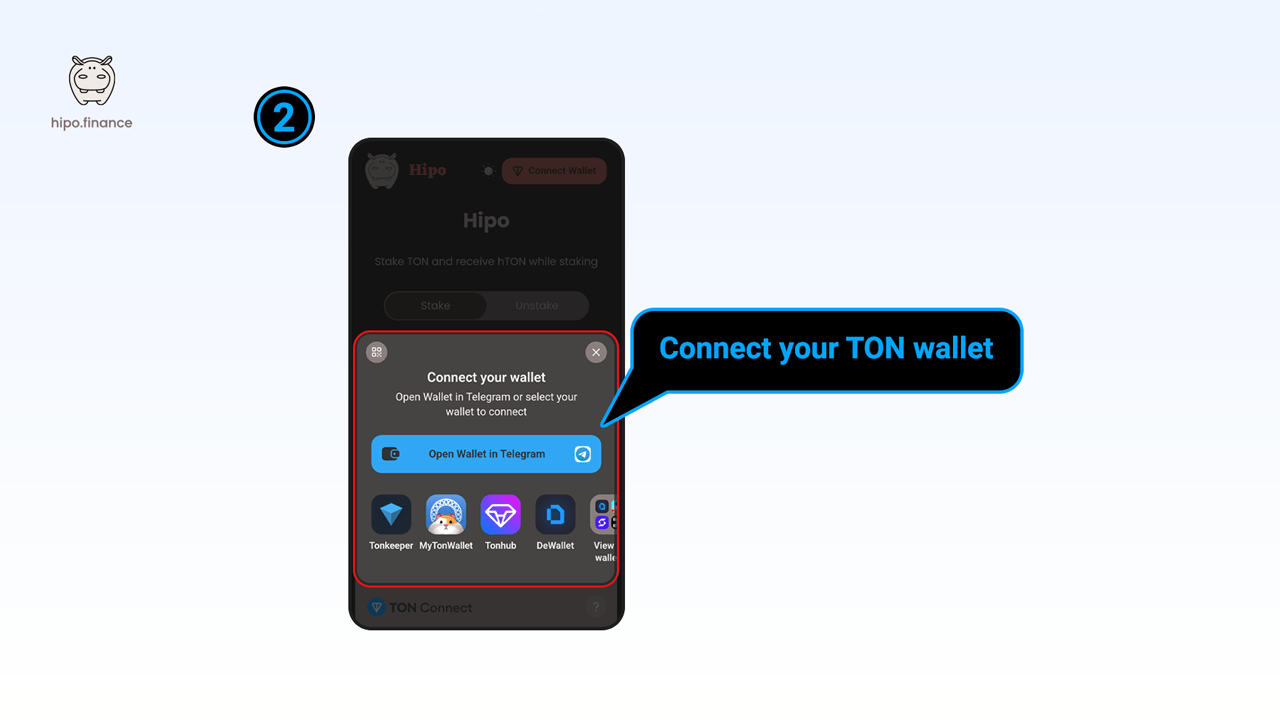
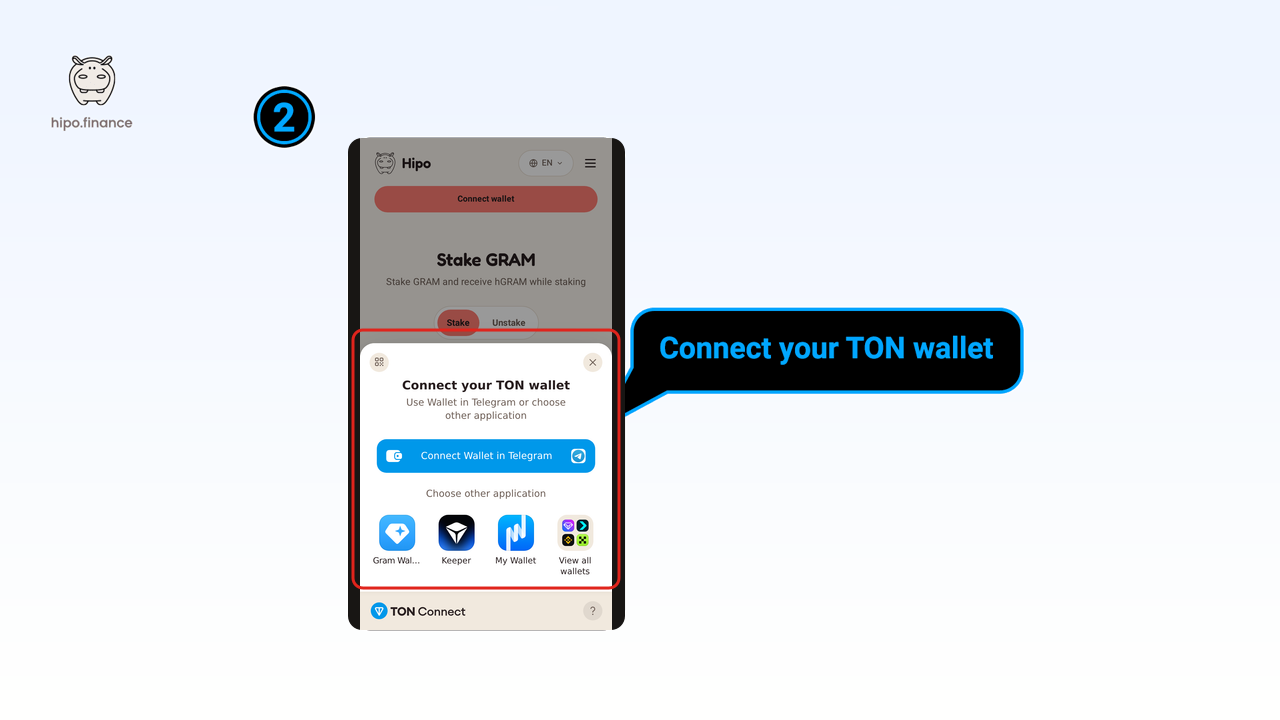
Retake the wallet-connect screenshot and rename Tonkeeper to Keeper
The earlier Walt / My Wallet rename left one file on the old names on
purpose: the alt text of tutorials-staking-3.png described a screenshot that
still showed the old branding. Retaking the screenshot unblocks it, and
surfaced a third rebrand.

The image is a composed tutorial graphic, not a raw capture, so only the
phone's screen was replaced. The phone body was measured out of the original
at x 348..624, y 138..629 and the current dialog captured from a real browser
at a phone viewport against a local preview, with the promo banner dismissed
first because its emoji has no glyph headless and would have shipped as a
tofu box. The old modal sat at y 330..587 and the new one lands within a few
pixels of that, so the speech bubble and the red highlight still point at the
right thing and were left untouched. The bubble needed no change either: it
reads "Connect your TON wallet", which is still verbatim TonConnect's own
modal title.

The dialog now lists Gram Wallet, Keeper and My Wallet; Tonhub and DeWallet
have dropped out of the top row. The alt text says so in all eleven locales,
each keeping its own connectives. Turkish moves from DeWallet'ı to
My Wallet'i, because vowel harmony follows the new final word.

Tonkeeper became Keeper on 2026-09-15. That was not in the request, and it is
swept anyway because this same change ships a screenshot showing "Keeper"
while the prose two lines above said "Tonkeeper" -- a contradiction the
[…]

Changed region(s): [[0.25, 0.1833, 0.5, 0.8861]]

diff --git a/src/components/app/Model.ts b/src/components/app/Model.ts
@@ -622,7 +622,7 @@ export class Model {
   isMultisig = false
   showMultisigGuidance = false
   multisigHint = false
-  // Shown after the wallet app was handed a link. ton://transfer carries no sender, and Tonkeeper
+  // Shown after the wallet app was handed a link. ton://transfer carries no sender, and Keeper
   // does not preselect the connected multisig, so this is the one thing the user must check.
   multisigWalletHint = false
   multisigSnapshot?: MultisigSnapshot
@@ -2218,7 +2218,7 @@ export class Model {
     }
   }
 
-  // The multisig path. Tonkeeper turns this link into a multisig order that keeps the payload and
+  // The multisig path. Keeper turns this link into a multisig order that keeps the payload and
   // waits for the remaining signatures, so the happy path is one press and no dialog at all.
   sendViaWalletApp = () => {
     this.captureMultisigSnapshot()

diff --git a/src/components/app/Defi.tsx b/src/components/app/Defi.tsx
@@ -100,16 +100,16 @@ const Defi = observer(({ model }: Props) => {
 
         <Section title={t('app.defi.wallets')} description={t('app.defi.walletsDescription')}>
           <Row
-            logo='/images/app/walt.jpg'
-            name='Walt'
-            round
-            actions={[{ label: use, href: model.waltUrl, target: 'hipo_walt' }]}
-          />
-          <Row
             logo='/images/app/mywallet.webp'
             name='My Wallet'
             round
             actions={[{ label: use, href: model.myWalletUrl, target: 'hipo_mywallet' }]}
+          />
+          <Row
+            logo='/images/app/walt.jpg'
+            name='Walt'
+            round
+            actions={[{ label: use, href: model.waltUrl, target: 'hipo_walt' }]}
           />
         </Section>
       </div>

diff --git a/src/components/app/MultisigGuidance.tsx b/src/components/app/MultisigGuidance.tsx
@@ -145,7 +145,7 @@ const OpenWalletButton = observer(({ model, href }: { model: Model; href: string
 const MultisigGuidance = observer(({ model }: Props) => {
   const t = model.t
 
-  // Raised after a link was handed over, because ton://transfer carries no sender and Tonkeeper
+  // Raised after a link was handed over, because ton://transfer carries no sender and Keeper
   // does not preselect the connected multisig.
   const walletHint = model.multisigWalletHint && (
     <Toast model={model} onDismiss={model.hideMultisigWalletHint}>

diff --git a/changelog/2026-10-01-keeper-and-staking-screenshot.md b/changelog/2026-10-01-keeper-and-staking-screenshot.md
@@ -1,0 +1,85 @@
+# 2026-10-01 — Keeper, and a retaken wallet-connect screenshot
+
+Follow-on from the Walt / My Wallet rename earlier the same day. That change left one file carrying
+the old names on purpose — the alt text of `tutorials-staking-3.png`, which described a screenshot
+that still showed the old branding. The screenshot has now been retaken, which unblocked the alt
+text and surfaced a third rebrand.
+
+| Commit         | Subject                                                             |
+| -------------- | ------------------------------------------------------------------- |
+| (this session) | Retake the wallet-connect screenshot and rename Tonkeeper to Keeper |
+
+## The screenshot
+
+`public/docs/images/tutorials-staking-3.png` is a composed tutorial graphic, not a raw capture: a
+pale gradient, the `hipo.finance` mark, a ② badge, a phone mockup, a speech bubble and a red
+highlight around the dialog. Redrawing that by hand would have broken the series' look, so only the
+phone's screen was replaced.
+
+The phone body was measured out of the original at `x 348..624, y 138..629`, and the current connect
+dialog was captured from a real browser at a phone viewport (420×820 at 2×) against a local preview,
+with the promo banner dismissed first — its emoji has no glyph in the headless build and would have
+shipped as a tofu box. The new screen is letterboxed into that rect on the phone's own dark colour
+and clipped to its corner radius.
+
+The old modal sat at y 330..587 inside the frame; the new one lands within a few pixels of that, so
+**the original speech bubble and red highlight still point at the right thing and were left
+untouched**. The bubble's text needed no change either — it reads "Connect your TON wallet", which
+is still verbatim what TonConnect's own modal title says.
+
+What the dialog now shows, and what the alt text in all eleven locales now says: **Gram Wallet,
+Keeper, My Wallet**. Tonhub and DeWallet have dropped out of the top row. Each locale keeps its own
+sentence frame and connectives; the three names stay Latin per `GLOSSARY.md`. The Turkish accusative
+suffix moved from `DeWallet'ı` to `My Wallet'i`, because vowel harmony follows the new final word.
+
+## Tonkeeper → Keeper
+
+Tonkeeper rebranded to **Keeper** on 2026-09-15, alongside an expansion to seven chains. This was
+not in the original request, and it was swept anyway for one reason: the screenshot being shipped in
+this same change _shows_ "Keeper", and the prose two lines above it said "Tonkeeper". That is a
+contradiction the change itself would have introduced.
+
+37 occurrences across 25 files: the staking and unstaking tutorials in all eleven locales, two code
+comments in `Model.ts`, one in `MultisigGuidance.tsx`, and the never-translate row in
+`src/i18n/GLOSSARY.md`. `Tonhub` is a different wallet and was not touched.
+
+**Two lowercase `tonkeeper` strings were deliberately left alone**, and the TonConnect wallets
+registry is the evidence for both. It currently lists `name: "Keeper"` with `app_name: "tonkeeper"`,
+and `name: "My Wallet"` with `app_name: "mytonwallet"` — the brands renamed, the wire identifiers did
+not. So:
+
+- `Model.ts:612`, the comment naming `'tonkeeper'` / `'mytonwallet'` as the app names reported for
+  analytics, is still accurate and would have become wrong if "corrected".
+- `Model.ts:234` refers to `tonkeeper/tongo`, a GitHub org path, which does not rename just because
+  a product does.
+
+Historical records — `CHANGELOG.md`, `changelog/*.md`, `specs/*.md` — keep "Tonkeeper" too. They
+describe what was tested and written at the time, and renaming the brand in them would misrepresent
+that.
+
+## Also
+
+`/defi/` now lists My Wallet above Walt, as requested.
+
+### Verification performed
+
+- `node scripts/check-i18n.mjs`: 20 stale items → **0 warnings, 100% coverage on all eleven
+  locales** after `--update-hashes` for the ten non-English locales.
+- `npm run build` passes. The built English, Persian and Turkish staking pages carry the new alt
+  text; the English body prose reads "including Keeper, Tonhub, and others"; the new 79 KB image
+  ships to `dist`.
+- The `/defi/` island bundle has `mywallet.webp` ahead of `walt.jpg`.
+- Repo-wide grep for `Tonkeeper` outside the historical files returns nothing, and `Tonhub` survives
+  untouched next to `Keeper` in every locale's staking tutorial.
+
+### Follow-ups
+
+- **The rest of the tutorial images are further out of date than this one was**, and the prose around
+  them has already moved on. `tutorials-staking-1.png` still shows "TON balance", "hTON balance",
+  "Stake TON and receive hTON" and a protocol fee of 6.25% — pre-rename, pre-0%-fee and pre-redesign.
+  Nine images in total (five staking, four unstaking). The same capture-and-composite method works
+  for them, but several need the app driven into particular states (an amount entered, a wallet
+  confirm sheet), so they are left pending a decision rather than started.
+- The `/defi/` prose card and the DeFi FAQ still name the two wallets in the old order ("Walt and My
+  Wallet"). Only the app rows were reordered; changing the sentence order would be 33 files and
+  another hash pass for a cosmetic gain.

diff --git a/src/i18n/GLOSSARY.md b/src/i18n/GLOSSARY.md
@@ -26,7 +26,7 @@ directly to a Latin word, and never add Persian plural suffixes to a ticker.
 | TVL, APY, APR, USD                                                                                      | acronyms, keep Latin; gloss once in prose if the language customarily does                  |
 | DeFi, DAO, DEX, NFT, SBT, MCP, JSON, API, SDK, URL                                                      | acronyms, keep Latin                                                                        |
 | TonConnect                                                                                              | wallet connection protocol name                                                             |
-| Tonkeeper, My Wallet, Tonhub, Walt, OpenMask, DeDust, STON.fi, TONCO, swap.coffee, Evaa                 | wallet and DeFi product names                                                               |
+| Keeper, My Wallet, Tonhub, Walt, OpenMask, DeDust, STON.fi, TONCO, swap.coffee, Evaa                    | wallet and DeFi product names                                                               |
 | Telegram, GitHub, Dune, Grafana, YouTube, CoinGecko, CoinMarketCap, Tonviewer, Quantstamp               | third-party product and company names (including audit firms)                               |
 | Hipo Gang, Hipo Club, Hipo Fund, Hipo Stats, Hipo MCP Server                                            | programme/product names; a translated gloss in parentheses on first use in prose is fine    |
 | URLs, addresses, tx hashes, contract names (`Treasury`, `Parent`, `Wallet`, `Bill`), code, CLI commands | never transformed; `ready_to_burn`-style identifiers and JSON keys are code, not copy       |

diff --git a/src/content/docs/ru/tutorials/unstaking.md b/src/content/docs/ru/tutorials/unstaking.md
@@ -25,7 +25,7 @@ title: 'Вывод из стейкинга'
 
 <figure><img src="/docs/images/tutorials-unstaking-3.png" alt="Форма обмена STON.fi с полем GRAM для отправки и hGRAM для получения"></figure>
 
-Кроме того, некоторые кошельки, например Tonkeeper, предлагают функцию, позволяющую обменивать hGRAM на GRAM прямо внутри приложения.
+Кроме того, некоторые кошельки, например Keeper, предлагают функцию, позволяющую обменивать hGRAM на GRAM прямо внутри приложения.
 
 Если ваш кошелёк вообще не может подписывать транзакции dApp — например, мультисиг- или холодный кошелёк, — вы всё равно можете вывести из стейкинга обычным переводом: см. [Стейкинг без приложения](/docs/staking-without-the-app/).
 

diff --git a/src/content/docs/fa/tutorials/unstaking.md b/src/content/docs/fa/tutorials/unstaking.md
@@ -25,7 +25,7 @@ title: 'آناستیک کردن'
 
 <figure><img src="/docs/images/tutorials-unstaking-3.png" alt="فرم سواپ STON.fi با GRAM برای ارسال و hGRAM برای دریافت"></figure>
 
-افزون بر این، برخی کیف پولها مانند Tonkeeper قابلیتی دارند که میتوانید hGRAM را مستقیماً داخل اپ به GRAM سواپ کنید.
+افزون بر این، برخی کیف پولها مانند Keeper قابلیتی دارند که میتوانید hGRAM را مستقیماً داخل اپ به GRAM سواپ کنید.
 
 اگر کیف پول شما اصلاً نمیتواند تراکنشهای دپ را امضا کند — مثلاً یک کیف پول چندامضایی یا سرد — باز هم میتوانید با یک انتقال ساده آناستیک کنید: [استیک بدون اپ](/docs/staking-without-the-app/) را ببینید.
 

diff --git a/src/content/docs/ru/tutorials/staking.md b/src/content/docs/ru/tutorials/staking.md
@@ -24,9 +24,9 @@ title: 'Стейкинг'
 
 ### Шаг 2. Подключите кошелёк
 
-Далее подключите свой кошелёк TON. Hipo поддерживает широкий набор кошельков для GRAM, включая Tonkeeper, Tonhub и другие.
+Далее подключите свой кошелёк TON. Hipo поддерживает широкий набор кошельков для GRAM, включая Keeper, Tonhub и другие.
 
-<figure><img src="/docs/images/tutorials-staking-3.png" alt="Диалог подключения кошелька со списком Tonkeeper, MyTonWallet, Tonhub и DeWallet"></figure>
+<figure><img src="/docs/images/tutorials-staking-3.png" alt="Диалог подключения кошелька со списком Gram Wallet, Keeper и My Wallet"></figure>
 
 ### Шаг 3. Введите сумму, которую хотите застейкать
 

diff --git a/src/content/docs/fa/tutorials/staking.md b/src/content/docs/fa/tutorials/staking.md
@@ -24,9 +24,9 @@ title: 'استیک کردن'
 
 ### گام ۲: کیف پول خود را متصل کنید
 
-سپس کیف پول TON خود را متصل کنید. Hipo از طیف گستردهای از کیف پولهای GRAM، از جمله Tonkeeper، Tonhub و دیگران، پشتیبانی میکند.
+سپس کیف پول TON خود را متصل کنید. Hipo از طیف گستردهای از کیف پولهای GRAM، از جمله Keeper، Tonhub و دیگران، پشتیبانی میکند.
 
-<figure><img src="/docs/images/tutorials-staking-3.png" alt="پنجرهٔ اتصال کیف پول با فهرست Tonkeeper و MyTonWallet و Tonhub و DeWallet"></figure>
+<figure><img src="/docs/images/tutorials-staking-3.png" alt="پنجرهٔ اتصال کیف پول با فهرست Gram Wallet و Keeper و My Wallet"></figure>
 
 ### گام ۳: مقدار مورد نظر برای استیک را وارد کنید
 

diff --git a/src/content/docs/uk/tutorials/unstaking.md b/src/content/docs/uk/tutorials/unstaking.md
@@ -25,7 +25,7 @@ title: 'Анстейк'
 
 <figure><img src="/docs/images/tutorials-unstaking-3.png" alt="Форма обміну STON.fi із GRAM до надсилання та hGRAM до отримання"></figure>
 
-Крім того, деякі гаманці, як-от Tonkeeper, мають функцію обміну hGRAM на GRAM просто в застосунку.
+Крім того, деякі гаманці, як-от Keeper, мають функцію обміну hGRAM на GRAM просто в застосунку.
 
 Якщо твій гаманець узагалі не вміє підписувати транзакції dapp — наприклад, мультисиг або холодний гаманець, — ти все одно можеш зробити анстейк звичайним переказом: див. [Стейкінг без застосунку](/docs/staking-without-the-app/).
 

diff --git a/src/content/docs/ar/tutorials/unstaking.md b/src/content/docs/ar/tutorials/unstaking.md
@@ -25,7 +25,7 @@ title: 'إلغاء الستاكينغ'
 
 <figure><img src="/docs/images/tutorials-unstaking-3.png" alt="نموذج مبادلة STON.fi مع GRAM لإرسال وhGRAM للاستلام"></figure>
 
-إضافةً إلى ذلك، توفِّر بعض المحافظ مثل Tonkeeper ميزة تتيح لك مبادلة hGRAM بـ GRAM مباشرة داخل التطبيق.
+إضافةً إلى ذلك، توفِّر بعض المحافظ مثل Keeper ميزة تتيح لك مبادلة hGRAM بـ GRAM مباشرة داخل التطبيق.
 
 إذا كانت محفظتك غير قادرة على توقيع معاملات dapp إطلاقًا — محفظة متعددة التواقيع أو محفظة باردة، على سبيل المثال — لا يزال بإمكانك إلغاء الستاكينغ بتحويل عادي: راجع [الستاكينغ بدون التطبيق](/docs/staking-without-the-app/).
 

diff --git a/src/content/docs/uk/tutorials/staking.md b/src/content/docs/uk/tutorials/staking.md
@@ -24,9 +24,9 @@ title: 'Стейкінг'
 
 ### Крок 2: Підключи гаманець
 
-Далі підключи свій TON-гаманець. Hipo підтримує широкий вибір гаманців для GRAM, зокрема Tonkeeper, Tonhub та інші.
+Далі підключи свій TON-гаманець. Hipo підтримує широкий вибір гаманців для GRAM, зокрема Keeper, Tonhub та інші.
 
-<figure><img src="/docs/images/tutorials-staking-3.png" alt="Діалог підключення гаманця зі списком Tonkeeper, MyTonWallet, Tonhub і DeWallet"></figure>
+<figure><img src="/docs/images/tutorials-staking-3.png" alt="Діалог підключення гаманця зі списком Gram Wallet, Keeper і My Wallet"></figure>
 
 ### Крок 3: Введи суму, яку хочеш застейкати
 
